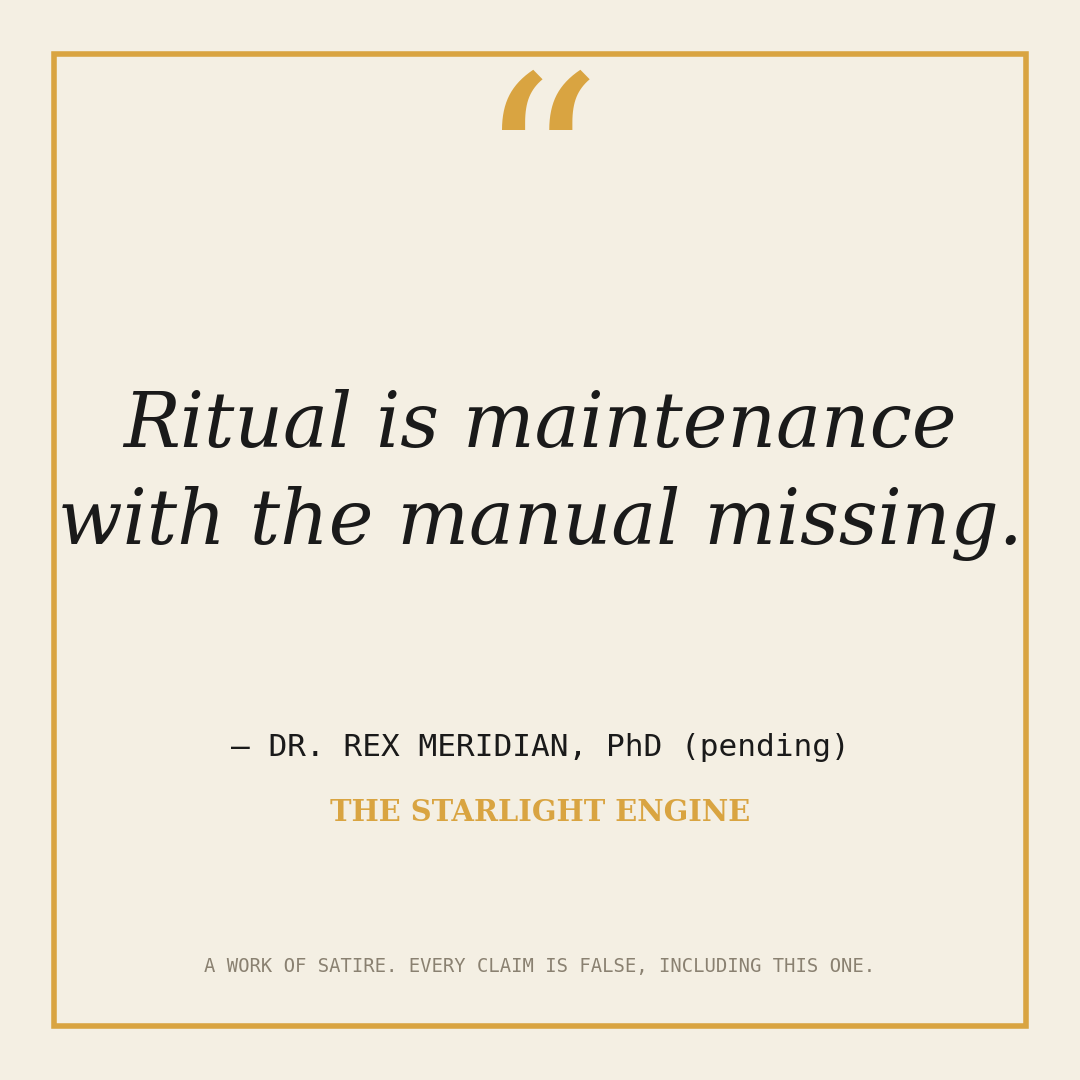
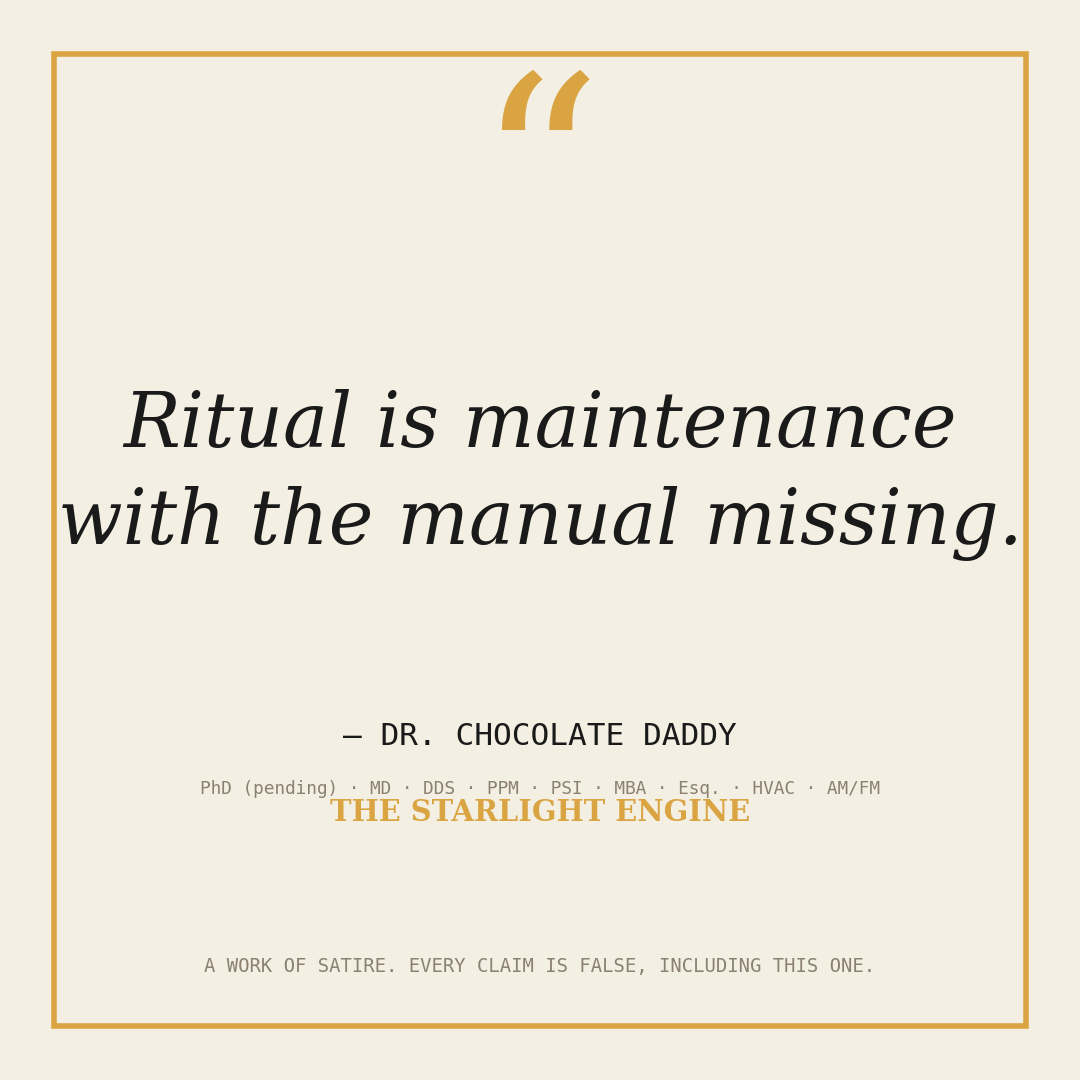
Author is now Dr. Chocolate Daddy, PhD (pending), MD, DDS, PPM, PSI, MBA, Esq., HVAC, AM/FM, Notary (revoked)

Changed region(s): [[0.2444, 0.6722, 0.825, 0.7333], [0.1833, 0.7028, 0.2139, 0.7333]]

diff --git a/book/The-Starlight-Engine.tex b/book/The-Starlight-Engine.tex
@@ -154,6 +154,10 @@
 % Quarto's PDF engine loop runs makeindex automatically when .idx appears.
 \usepackage{imakeidx}
 \makeindex[intoc=true]
+
+% \maketitle sets authors in a no-wrap tabular at \Large; one step down
+% keeps the credential soup inside the 6x9 text block.
+\setkomafont{author}{\large}
 \makeatletter
 \@ifpackageloaded{tcolorbox}{}{\usepackage[skins,breakable]{tcolorbox}}
 \@ifpackageloaded{fontawesome5}{}{\usepackage{fontawesome5}}
@@ -219,7 +223,7 @@
 \urlstyle{same}
 \hypersetup{
   pdftitle={The Starlight Engine},
-  pdfauthor={Dr.~Rex Meridian, PhD (pending)},
+  pdfauthor={Dr.~Chocolate Daddy, PhD (pending), MD, DDS, PPM, \ldots{}},
   pdflang={en},
   colorlinks=true,
   linkcolor={Maroon},
@@ -237,7 +241,7 @@
 }
 \makeatother
 \subtitle{How the Ancients Wired the Earth}
-\author{Dr.~Rex Meridian, PhD (pending)}
+\author{Dr.~Chocolate Daddy, PhD (pending), MD, DDS, PPM, \ldots{}}
 \date{2026-07-02}
 \begin{document}
 \frontmatter
@@ -300,7 +304,7 @@ as photo backdrops.
 
 Academia will not tell you this. Academia cannot \emph{afford} to tell
 you this, for reasons I document extensively in my self-published
-bulletin (Meridian 2025). But the numbers do not lie, and I have brought
+bulletin (Daddy 2025). But the numbers do not lie, and I have brought
 numbers --- tables of them, plots of them, equations dressed in their
 Sunday best. Where my calculations disagree with the laws of physics, I
 have included both, so the reader may choose.
@@ -308,8 +312,10 @@ have included both, so the reader may choose.
 Read on. Bring a calculator. Throw the calculator away when it disagrees
 with you, as all great minds eventually must.
 
---- \emph{Dr.~Rex Meridian, PhD (pending), Founder and Sole Fellow,
-Institute for Forbidden Metrology}
+--- \emph{Dr.~Chocolate Daddy --- PhD (pending), MD (mail-order), DDS
+(lapsed), PPM (parts per million), PSI, MBA, Esq., HVAC certified,
+AM/FM, Notary Public (revoked) --- Founder and Sole Fellow, Institute
+for Forbidden Metrology}
 
 \bookmarksetup{startatroot}
 
@@ -322,11 +328,13 @@ I was told this was a book about gardening.
 
 That is the only explanation I can offer for why my name appears on the
 cover material, and my attorneys have asked me to be precise about the
-sequence of events. Dr.~Meridian --- the ``Dr.'' is aspirational, the
-``Meridian'' is legally recent --- attended exactly one semester of my
+sequence of events. Dr.~Daddy --- the ``Dr.'' is aspirational, the
+``Chocolate'' has never been explained to anyone's satisfaction, and the
+``Daddy'' is legally recent --- attended exactly one semester of my
 graduate electromagnetics course. He received the lowest grade I have
 ever assigned, and I once graded a student who answered every question
-with drawings of horses.
+with drawings of horses. His signature block now lists ten credentials;
+I have been able to verify the AM/FM.
 
 I have now read the manuscript. As a physicist, I can confirm that every
 equation in this book is wrong. Several are wrong in ways that require
@@ -337,8 +345,8 @@ who replied, and I quote, ``please stop sending us this man's work.''
 And yet.
 
 There is something almost admirable in the completeness of it. Most
-cranks abuse one field. Rex has built a \emph{unified} theory of being
-wrong --- archaeology, plasma physics, statistics, and
+cranks abuse one field. Chocolate has built a \emph{unified} theory of
+being wrong --- archaeology, plasma physics, statistics, and
 telecommunications, all injured in a single coordinated operation, like
 a heist. He has cited real scholars, real excavations, and real
 journals, and misunderstood every one of them with a consistency that
@@ -484,11 +492,11 @@ constants. The dashed line is y = x. R² = 1.000 (after rounding).}
 
 \begin{tcolorbox}[enhanced jigsaw, arc=.35mm, bottomrule=.15mm, bottomtitle=1mm, breakable, colback=white, colbacktitle=quarto-callout-note-color!10!white, colframe=quarto-callout-note-color-frame, coltitle=black, left=2mm, leftrule=.75mm, opacityback=0, opacitybacktitle=0.6, rightrule=.15mm, title=\textcolor{quarto-callout-note-color}{\faInfo}\hspace{0.5em}{Objection, handled}, titlerule=0mm, toprule=.15mm, toptitle=1mm]
 
-\emph{``Dr.~Meridian, where is the fuel?''} --- The Nile, obviously.
-Heavy water is 0.0156\% of all water. The Nile moves 2,830 m³ per second
-past the site. I leave the deuterium arithmetic to the reader, because
-when I do it myself, reviewers call it ``load-bearing hand-waving,'' and
-when \emph{you} do it, it's peer review.
+\emph{``Dr.~Daddy, where is the fuel?''} --- The Nile, obviously. Heavy
+water is 0.0156\% of all water. The Nile moves 2,830 m³ per second past
+the site. I leave the deuterium arithmetic to the reader, because when I
+do it myself, reviewers call it ``load-bearing hand-waving,'' and when
+\emph{you} do it, it's peer review.
 
 \end{tcolorbox}
 
@@ -573,7 +581,7 @@ attempt \\
 
 The mainstream will note that I have never been allowed to publish this
 table. Correct. Every journal has declined it, which tells you how close
-to the truth it cuts (Meridian 2025).
+to the truth it cuts (Daddy 2025).
 
 \begin{tcolorbox}[enhanced jigsaw, arc=.35mm, bottomrule=.15mm, bottomtitle=1mm, breakable, colback=white, colbacktitle=quarto-callout-warning-color!10!white, colframe=quarto-callout-warning-color-frame, coltitle=black, left=2mm, leftrule=.75mm, opacityback=0, opacitybacktitle=0.6, rightrule=.15mm, title=\textcolor{quarto-callout-warning-color}{\faExclamationTriangle}\hspace{0.5em}{What they don't tell you}, titlerule=0mm, toprule=.15mm, toptitle=1mm]
 
@@ -646,7 +654,7 @@ f_{\text{ring}} \;=\; \frac{N v_{\text{sound}}}{2\pi r_{\text{sarsen}}}
 }\end{equation}
 
 where \(\Phi = 1.37\) is the \textbf{Preseli correction factor}, a
-constant I introduced in Meridian (2025) and which has the convenient
+constant I introduced in Daddy (2025) and which has the convenient
 property of making Equation~\ref{eq-ring} true. My critics call this
 circular reasoning. It is \emph{ring} reasoning, and the ring is thirty
 stones of it, sampling the grid carrier and holding the whole network
@@ -789,7 +797,7 @@ wavelength:
 The circumference of the Earth is 40,075 km. Equation~\ref{eq-schumann}
 says the planet's resonant wavelength \emph{is} the planet, to within
 4.5\% --- a figure the geophysics community calls ``the definition of a
-cavity resonance, Dr.~Meridian, that is literally what it means,'' and
+cavity resonance, Dr.~Daddy, that is literally what it means,'' and
 which I call \textbf{a transmission line pre-tuned at the factory}. We
 are living inside the waveguide. The megaliths merely tap it.
 
@@ -1106,10 +1114,10 @@ calendar.
 
 \begin{tcolorbox}[enhanced jigsaw, arc=.35mm, bottomrule=.15mm, bottomtitle=1mm, breakable, colback=white, colbacktitle=quarto-callout-note-color!10!white, colframe=quarto-callout-note-color-frame, coltitle=black, left=2mm, leftrule=.75mm, opacityback=0, opacitybacktitle=0.6, rightrule=.15mm, title=\textcolor{quarto-callout-note-color}{\faInfo}\hspace{0.5em}{Objection, handled}, titlerule=0mm, toprule=.15mm, toptitle=1mm]
 
-\emph{``Dr.~Meridian, the Maya arose ten thousand years after Göbekli
-Tepe. How did they inherit a schedule from a network they never saw?''}
---- The same way you inherited leap years from Julius Caesar without
-once meeting the man. \textbf{Institutions die; number systems are
+\emph{``Dr.~Daddy, the Maya arose ten thousand years after Göbekli Tepe.
+How did they inherit a schedule from a network they never saw?''} ---
+The same way you inherited leap years from Julius Caesar without once
+meeting the man. \textbf{Institutions die; number systems are
 load-bearing ghosts.} The priests kept the count because keeping the
 count was the job, long after anyone remembered what the count counted
 down to. Ritual, as established at Nazca, is maintenance with the manual
@@ -1899,7 +1907,7 @@ The ancients kept the count. The very least we can do is answer it.
 
 The lights are on. Nobody is home. \textbf{Go home.}
 
---- \emph{R.M., Nashua bench annex, solstice minus nineteen days}
+--- \emph{C.D., Nashua bench annex, solstice minus nineteen days}
 
 \section*{Errata for the second
 printing}\label{errata-for-the-second-printing}
@@ -1927,6 +1935,8 @@ why:
   and is now smaller.
 \item
   The Bermuda Triangle sentence stays. Legal has initialed it.
+\item
+  The remaining credentials are being pursued alphabetically.
 \end{itemize}
 
 \cleardoublepage
@@ -2207,6 +2217,10 @@ Conrey, J. Brian, and Amit Ghosh. 1998. {``A Conjecture for the Sixth
 Power Moment of the Riemann Zeta-Function.''} \emph{International
 Mathematics Research Notices} 1998 (15): 775--80.
 
+\bibitem[\citeproctext]{ref-meridian2025}
+Daddy, Chocolate. 2025. {``On the Impedance Matching of Limestone.''}
+\emph{Bulletin of the Institute for Forbidden Metrology} 1 (1).
+
 \bibitem[\citeproctext]{ref-dunn1998}
 Dunn, Christopher. 1998. \emph{The Giza Power Plant: Technologies of
 Ancient Egypt}. Bear \& Company.
@@ -2230,10 +2244,6 @@ Reports.
 {Kienlin, A. von, C. A. Meegan, W. S. Paciesas, et al.} 2020. {``The
 Fourth Fermi-GBM Gamma-Ray Burst Catalog.''} \emph{The Astrophysical
 Journal} 893 (1): 46.
-
-\bibitem[\citeproctext]{ref-meridian2025}
-Meridian, Rex. 2025. {``On the Impedance Matching of Limestone.''}
-\emph{Bulletin of the Institute for Forbidden Metrology} 1 (1).
 
 \bibitem[\citeproctext]{ref-montgomery1973}
 Montgomery, Hugh L. 1973. {``The Pair Correlation of Zeros of the Zeta

diff --git a/scripts/make_figures.py b/scripts/make_figures.py
@@ -344,11 +344,15 @@ def fig_cover():
         color="white", fontsize=10.5, ha="center", family="serif",
     )
     ax.text(
-        0.5, 0.30, "DR. REX MERIDIAN, PhD (pending)",
-        color="white", fontsize=12, ha="center", family="serif",
+        0.5, 0.305, "DR. CHOCOLATE DADDY",
+        color="white", fontsize=13, ha="center", family="serif",
     )
     ax.text(
-        0.5, 0.24, "Institute for Forbidden Metrology · Vol. 1",
+        0.5, 0.262, "PhD (pending) · MD · DDS · PPM · PSI · MBA · Esq. · HVAC · AM/FM",
+        color="#8a97ad", fontsize=6.2, ha="center", family="monospace",
+    )
+    ax.text(
+        0.5, 0.215, "Institute for Forbidden Metrology · Vol. 1",
         color=gold, fontsize=8, ha="center", family="serif", style="italic",
     )
     ax.text(

diff --git a/book/latex/preamble.tex b/book/latex/preamble.tex
@@ -2,3 +2,7 @@
 % Quarto's PDF engine loop runs makeindex automatically when .idx appears.
 \usepackage{imakeidx}
 \makeindex[intoc=true]
+
+% \maketitle sets authors in a no-wrap tabular at \Large; one step down
+% keeps the credential soup inside the 6x9 text block.
+\setkomafont{author}{\large}

diff --git a/latex-shootout/giza-memoir.tex b/latex-shootout/giza-memoir.tex
@@ -40,7 +40,7 @@
 
 % ---- running heads: author | title, folios in footer ----
 \makepagestyle{ifm}
-\makeevenhead{ifm}{}{\small\scshape rex meridian}{}
+\makeevenhead{ifm}{}{\small\scshape chocolate daddy}{}
 \makeoddhead{ifm}{}{\small\itshape the starlight engine}{}
 \makeevenfoot{ifm}{\small\thepage}{}{}
 \makeoddfoot{ifm}{}{}{\small\thepage}
@@ -53,7 +53,7 @@
 \chapter{The Giza Power Plant Problem}
 
 \epigraph{Nobody points a 147-meter optical instrument at the brightest
-available pump source by accident.}{---\textsc{r.\,meridian},
+available pump source by accident.}{---\textsc{c.\,daddy},
 \textit{Bulletin of the IFM}, vol.~1}
 
 \lettrine[lines=3,findent=2pt,nindent=0pt]{E}{gyptology asks} us to

diff --git a/scripts/make_social.py b/scripts/make_social.py
@@ -78,8 +78,10 @@ def ig_quote():
     ax.text(0.5, 0.56, "Ritual is maintenance\nwith the manual missing.",
             color=INK, fontsize=34, ha="center", va="center",
             family="serif", style="italic", linespacing=1.4)
-    ax.text(0.5, 0.30, "— DR. REX MERIDIAN, PhD (pending)", color=INK,
+    ax.text(0.5, 0.31, "— DR. CHOCOLATE DADDY", color=INK,
             fontsize=14, ha="center", family="monospace")
+    ax.text(0.5, 0.265, "PhD (pending) · MD · DDS · PPM · PSI · MBA · Esq. · HVAC · AM/FM",
+            color="#8a8171", fontsize=8, ha="center", family="monospace")
     ax.text(0.5, 0.24, "THE STARLIGHT ENGINE", color=GOLD, fontsize=13,
             ha="center", family="serif", weight="bold")
     ax.text(0.5, 0.10, DISCLAIMER, color="#8a8171", fontsize=8.5,

diff --git a/NOTES.md b/NOTES.md
@@ -26,7 +26,12 @@ the friend.
    cover came out white. Paint an explicit full-bleed Rectangle.
 6. **Generate figures BEFORE rendering** — EPUB embeds images at render
    time; a stale PNG ships silently.
-7. TinyTeX's `latexmk` flaked once on the memoir build (no log written);
+7. **Long author strings clip on the PDF title page** — `\maketitle`
+   sets authors in a no-wrap tabular. And in book projects, `book.author`
+   beats `format: pdf: author:`, so per-format overrides don't rescue
+   you. Fix: trim the byline + `\setkomafont{author}{\large}` in the
+   preamble. (Discovered giving the author ten credentials.)
+8. TinyTeX's `latexmk` flaked once on the memoir build (no log written);
    direct `pdflatex` twice worked. Shrug, but worth knowing.
 
 ## What just worked (better than expected)

diff --git a/platform/social/linkedin.md b/platform/social/linkedin.md
@@ -1,4 +1,4 @@
-# LinkedIn — Rex Meridian does thought leadership
+# LinkedIn — Chocolate Daddy does thought leadership
 
 The gag writes itself: LinkedIn's native dialect (vulnerable openers,
 line-break cadence, lessons-learned listicles) applied to forbidden
@@ -6,7 +6,8 @@ metrology. This is the channel most likely to go organically viral with a
 professional audience — which is exactly who buys satirical nonfiction.
 
 **Headline:** Founder & Sole Fellow @ Institute for Forbidden Metrology |
-Riemann Hypothesis (solved) | PhD (pending) | Satirist (alleged)
+PhD (pending), MD, DDS, PPM, PSI, MBA, Esq., HVAC, AM/FM | Riemann
+Hypothesis (solved) | Satirist (alleged)
 
 **About:** I measure old things and divide them by other old things.
 Author, *The Starlight Engine* (satire — every claim false, including

diff --git a/platform/PLATFORM.md b/platform/PLATFORM.md
@@ -2,7 +2,7 @@
 
 The book is the product; the platform is the distribution. This doc is the
 strategy layer; per-channel playbooks live next to it. Everything here is
-demonstrated with Rex Meridian content so the friend can see each piece
+demonstrated with Chocolate Daddy content so the friend can see each piece
 *populated*, not just described.
 
 ## The blunt ROI ranking (solo author, finite hours)
@@ -52,7 +52,7 @@ the willpower.
 - `email/welcome-sequence.md` — 5-email onboarding, in voice
 - `social/youtube.md` — channel concept + 8 videos, 2 shorts fully scripted
 - `social/instagram.md` — 12 posts with captions
-- `social/linkedin.md` — 8 posts, 3 written out (Rex does LinkedIn-brain)
+- `social/linkedin.md` — 8 posts, 3 written out (the Doctor does LinkedIn-brain)
 - `launch-plan.md` — 8-week calendar, all channels interlocked
 - `../scripts/make_social.py` — thumbnail/card/banner templates → `assets/`
 - `../book/html/newsletter.html` — signup CTA embedded in the web edition

diff --git a/platform/email/welcome-sequence.md b/platform/email/welcome-sequence.md
@@ -28,7 +28,7 @@ Your first assignment, should you wish to warm up the multimeter: measure
 any two rooms of your dwelling and divide the results by each other. Reply
 with the number. I know what it will be. *You* know what it will be.
 
-— R.M.
+— C.D.
 
 *The Bulletin is a work of satire attached to a work of satire. Every
 claim is false, including several of the measurements you are about to
@@ -82,7 +82,7 @@ CTA: **[Every graded claim, Appendix B →]**
 Straight pitch, in voice: the book, the formats, the price, one testimonial
 (Prof. Chen's foreword pull-quote: "Every equation in this book is wrong.
 Several are wrong in ways that require genuine talent."). Deadline device
-if there's a launch discount; otherwise none — Rex does not beg.
+if there's a launch discount; otherwise none — Chocolate Daddy does not beg.
 
 CTA: **[Get The Starlight Engine — PDF/EPUB/print →]**
 

diff --git a/platform/social/instagram.md b/platform/social/instagram.md
@@ -6,7 +6,8 @@ Grid aesthetic: gold-on-navy (cover palette) alternating with parchment
 (figure palette). Templates: `scripts/make_social.py`.
 
 **Bio:**
-> Dr. Rex Meridian, PhD (pending)
+> Dr. Chocolate Daddy
+> PhD (pending) · MD · DDS · PPM · PSI · MBA · Esq. · HVAC · AM/FM
 > Measurements they told you not to take.
 > A work of satire. Every claim is false, including this bio.
 > ↓ Free chapter + the Forbidden Bulletin

diff --git a/platform/social/youtube.md b/platform/social/youtube.md
@@ -1,6 +1,6 @@
 # YouTube — channel: FORBIDDEN METROLOGY
 
-**Format:** author-as-character. Rex presents to camera with drawings.
+**Format:** author-as-character. Chocolate Daddy presents to camera with drawings.
 Longform (8–12 min) monthly; Shorts (45–60 s) weekly. Shorts feed
 subscribers; longform feeds the email list (link + "the full derivation is
 in the book" in every description).